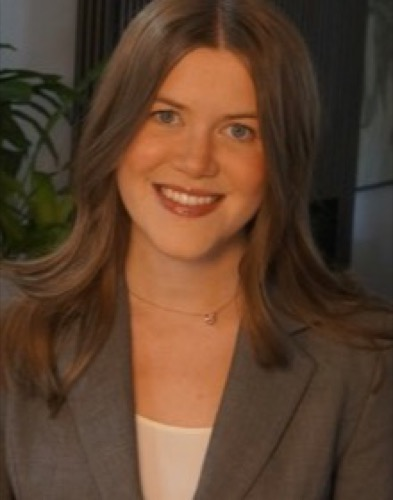
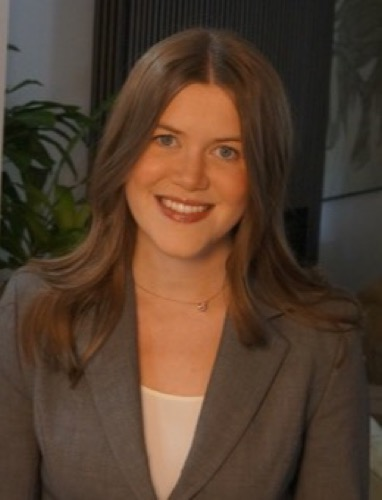
Darken Register Now buttons, add more dinosaurs, ease Natalie's zoom
Adds a dedicated cta-green token (deeper than the general sunlight
accent) for the four buttons literally labeled Register Now, since
sunlight was reading too bright/pale even in dark mode. Bumps the
registration page's floating dinosaurs from 11 to 20 and adds a
smiley to the "Registration Opening Soon" heading. Backed Natalie's
photo crop off slightly per request.

diff --git a/src/pages/RegistrationComingSoon.tsx b/src/pages/RegistrationComingSoon.tsx
@@ -23,6 +23,15 @@ const pageDinos: FloatingDino[] = [
   { variant: 'long-neck', color: 'text-sunlight', size: 'w-8 h-8', top: '48%', left: '50%', duration: 4.2, delay: 0.5 },
   { variant: 'round', color: 'text-fern', size: 'w-9 h-9', top: '5%', left: '48%', duration: 3.5, delay: 1.4 },
   { variant: 'stego', color: 'text-leaf', size: 'w-8 h-8', top: '92%', left: '46%', duration: 3.7, delay: 0.8 },
+  { variant: 'round', color: 'text-sunlight', size: 'w-10 h-10', top: '20%', left: '35%', duration: 3.6, delay: 0.4 },
+  { variant: 'stego', color: 'text-fern', size: 'w-9 h-9', top: '4%', left: '70%', duration: 4.0, delay: 1.0 },
+  { variant: 'long-neck', color: 'text-moss', size: 'w-12 h-12', top: '12%', left: '55%', duration: 3.3, delay: 1.7 },
+  { variant: 'round', color: 'text-leaf', size: 'w-8 h-8', top: '45%', left: '22%', duration: 3.9, delay: 0.2 },
+  { variant: 'stego', color: 'text-sunlight', size: 'w-11 h-11', top: '65%', left: '35%', duration: 3.5, delay: 1.2 },
+  { variant: 'long-neck', color: 'text-fern', size: 'w-10 h-10', top: '75%', left: '60%', duration: 4.3, delay: 0.6 },
+  { variant: 'round', color: 'text-moss', size: 'w-9 h-9', top: '25%', left: '92%', duration: 3.7, delay: 1.5 },
+  { variant: 'stego', color: 'text-leaf', size: 'w-8 h-8', top: '55%', left: '65%', duration: 3.4, delay: 0.9 },
+  { variant: 'long-neck', color: 'text-sunlight', size: 'w-9 h-9', top: '85%', left: '30%', duration: 4.1, delay: 1.8 },
 ];
 
 const cardDinos: FloatingDino[] = [
@@ -65,7 +74,7 @@ export default function RegistrationComingSoon() {
         </div>
 
         <h1 className="font-display text-cream text-3xl md:text-4xl font-bold mb-4">
-          Registration Opening Soon
+          Registration Opening Soon :)
         </h1>
         <p className="text-cream-dim mb-8">
           We're putting the finishing touches on registration for WEC 2026. Check back soon.

diff --git a/src/components/Nav.tsx b/src/components/Nav.tsx
@@ -108,7 +108,7 @@ export default function Nav() {
             <ThemeToggle />
             <Link
               to="/register"
-              className="bg-sunlight text-cream px-6 py-2.5 rounded-full font-sans font-bold text-sm hover:scale-105 transition-transform duration-200"
+              className="bg-cta-green text-cream px-6 py-2.5 rounded-full font-sans font-bold text-sm hover:scale-105 transition-transform duration-200"
             >
               Register Now
             </Link>
@@ -158,7 +158,7 @@ export default function Nav() {
 
               <Link
                 to="/register"
-                className="bg-sunlight text-cream px-8 py-3 rounded-full font-sans font-bold text-lg mt-4"
+                className="bg-cta-green text-cream px-8 py-3 rounded-full font-sans font-bold text-lg mt-4"
               >
                 Register Now
               </Link>

diff --git a/src/pages/Competitions.tsx b/src/pages/Competitions.tsx
@@ -72,7 +72,7 @@ export default function Competitions() {
             <div className="flex flex-col sm:flex-row gap-4 justify-center">
               <Link
                 to="/register"
-                className="bg-sunlight text-cream px-8 py-4 rounded-full font-sans font-bold text-lg hover:scale-105 transition-transform duration-200"
+                className="bg-cta-green text-cream px-8 py-4 rounded-full font-sans font-bold text-lg hover:scale-105 transition-transform duration-200"
               >
                 Register Now
               </Link>

diff --git a/src/pages/Home.tsx b/src/pages/Home.tsx
@@ -103,7 +103,7 @@ export default function Home() {
           >
             <Link
               to="/register"
-              className="bg-sunlight text-cream px-8 py-4 rounded-full font-sans font-bold text-lg hover:scale-105 transition-transform duration-200"
+              className="bg-cta-green text-cream px-8 py-4 rounded-full font-sans font-bold text-lg hover:scale-105 transition-transform duration-200"
             >
               Register Now
             </Link>

diff --git a/tailwind.config.js b/tailwind.config.js
@@ -21,6 +21,7 @@ export default {
         'fern': 'rgb(var(--fern) / <alpha-value>)',
         'leaf': 'rgb(var(--leaf) / <alpha-value>)',
         'sunlight': 'rgb(var(--sunlight) / <alpha-value>)',
+        'cta-green': 'rgb(var(--cta-green) / <alpha-value>)',
         'gold': 'rgb(var(--gold) / <alpha-value>)',
         'bark': 'rgb(var(--bark) / <alpha-value>)',
         'bark-light': 'rgb(var(--bark-light) / <alpha-value>)',

diff --git a/src/styles/globals.css b/src/styles/globals.css
@@ -15,6 +15,7 @@
   --fern: 61 122 69;
   --leaf: 47 145 66;
   --sunlight: 76 175 31;
+  --cta-green: 45 110 30;
   --gold: 201 151 26;
   --bark: 58 34 16;
   --bark-light: 92 61 30;
@@ -46,6 +47,7 @@
   --fern: 90 140 82;
   --leaf: 122 184 112;
   --sunlight: 200 232 122;
+  --cta-green: 74 118 56;
   --gold: 212 168 50;
   --bark: 58 34 16;
   --bark-light: 92 61 30;
